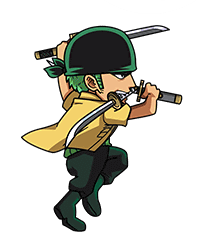
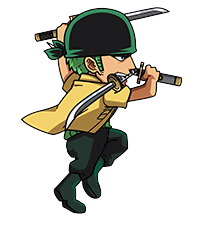
Sprites fix

Changed region(s): [[0.0865, 0.0307, 0.8942, 0.9518], [0.4904, 0.6447, 0.5192, 0.6754]]

diff --git a/src/main.ts b/src/main.ts
@@ -171,7 +171,7 @@ class Character extends CreateCharacter {
         this.power = 0;
         this.attackUpperDamage = 5;
         this.attackLowerDamage = 10;
-        this.pushEffect = 100;
+        this.pushEffect = 200;
         this.isJumping = false;
         this.powerIncrement = 10;
         this.blocking = false;
@@ -366,6 +366,14 @@ const playerCharacter = new Character(
             correctCropParameters: { x: 0, y: 0 },
             image: new Image(),
             imageLoaded: false
+        },
+        block : {
+            imageSrc: '/zoro/blocking.png',
+            scale: 0.6,
+            framesMax: 2,
+            correctCropParameters: { x: 0, y: 0 },
+            image: new Image(),
+            imageLoaded: false
         }
     }
 );
@@ -382,41 +390,49 @@ const enemyCharacter = new Character(
     'purple',
     {
         idle: {
-            imageSrc: '/luffy/idle.png',
-            scale: 1,
-            framesMax: 3,
-            correctCropParameters: { x: 0, y: 100 },
+            imageSrc: '/afro-luffy/idle.png',
+            scale: 0.6,
+            framesMax: 2,
+            correctCropParameters: { x: 0, y: 20 },
             image: new Image(),
             imageLoaded: false
         },
         run: {
-            imageSrc: '/samurai/run-sword.png',
-            scale: 3.7,
-            framesMax: 10,
-            correctCropParameters: { x: 0, y: 40 },
+            imageSrc: '/afro-luffy/running.png',
+            scale: 0.6,
+            framesMax: 1,
+            correctCropParameters: { x: 0, y: 0 },
             image: new Image(),
             imageLoaded: false
         },
         jump: {
-            imageSrc: '/samurai/run.png',
-            scale: 3.7,
-            framesMax: 2,
+            imageSrc: '/afro-luffy/jumping.png',
+            scale: 0.6,
+            framesMax: 1,
             correctCropParameters: { x: 0, y: 0 },
             image: new Image(),
             imageLoaded: false
         },
         attackUpper: {
-            imageSrc: '/samurai/run.png',
-            scale: 3.7,
-            framesMax: 6,
+            imageSrc: '/afro-luffy/heavyAttack.png',
+            scale: 0.6,
+            framesMax: 3,
             correctCropParameters: { x: 0, y: 0 },
             image: new Image(),
             imageLoaded: false
         },
         attackLower: {
-            imageSrc: '/samurai/run.png',
-            scale: 3.7,
-            framesMax: 6,
+            imageSrc: '/afro-luffy/lightAttack.png',
+            scale: 0.6,
+            framesMax: 1,
+            correctCropParameters: { x: 0, y: 0 },
+            image: new Image(),
+            imageLoaded: false
+        },
+        block : {
+            imageSrc: '/afro-luffy/blocking.png',
+            scale: 0.6,
+            framesMax: 2,
             correctCropParameters: { x: 0, y: 0 },
             image: new Image(),
             imageLoaded: false
@@ -486,6 +502,8 @@ function startAnimation() {
     } else if (keys.d.pressed) {
         playerCharacter.position.x += 5;
         playerCharacter.setAction('run');
+    } else if (keys.ArrowDown.pressed) {
+        playerCharacter.setAction('block');
     } else if (keys.w.pressed && !playerCharacter.isJumping) {
         playerCharacter.velocity.y = -5;
         playerCharacter.isJumping = true;
@@ -498,6 +516,8 @@ function startAnimation() {
     } else if (keys.ArrowRight.pressed) {
         enemyCharacter.position.x += 5;
         enemyCharacter.setAction('run');
+    } else if (keys.ArrowDown.pressed) {
+        enemyCharacter.setAction('block');
     } else {
         if (!playerCharacter.isAttackingUpper && !playerCharacter.isAttackingLower && !playerCharacter.isJumping) {
             playerCharacter.setAction('idle');
@@ -547,6 +567,13 @@ function startAnimation() {
         let playerHealthBar = document.querySelector('.stats__health-bar--player') as HTMLElement;
         playerHealthBar.style.width = playerCharacter.health + '%';
         console.log('Lower attack detected by enemy');
+    }
+
+    if(playerCharacter.blocking == true){
+        playerCharacter.setAction('block');
+    }
+    if(enemyCharacter.blocking == true){
+        enemyCharacter.setAction('block');
     }
 
     checkCentralCrossing();

diff --git a/readme.md b/readme.md
@@ -33,5 +33,7 @@ Enjoy playing Maha Yuddha!
 
 //Bugs 
 
-for some reason enemy attacks are more effective than player attack
-make sure you offset every image 
+find and change sprites
+audio 
+character selection 
+attack animation while jumping --> disable
